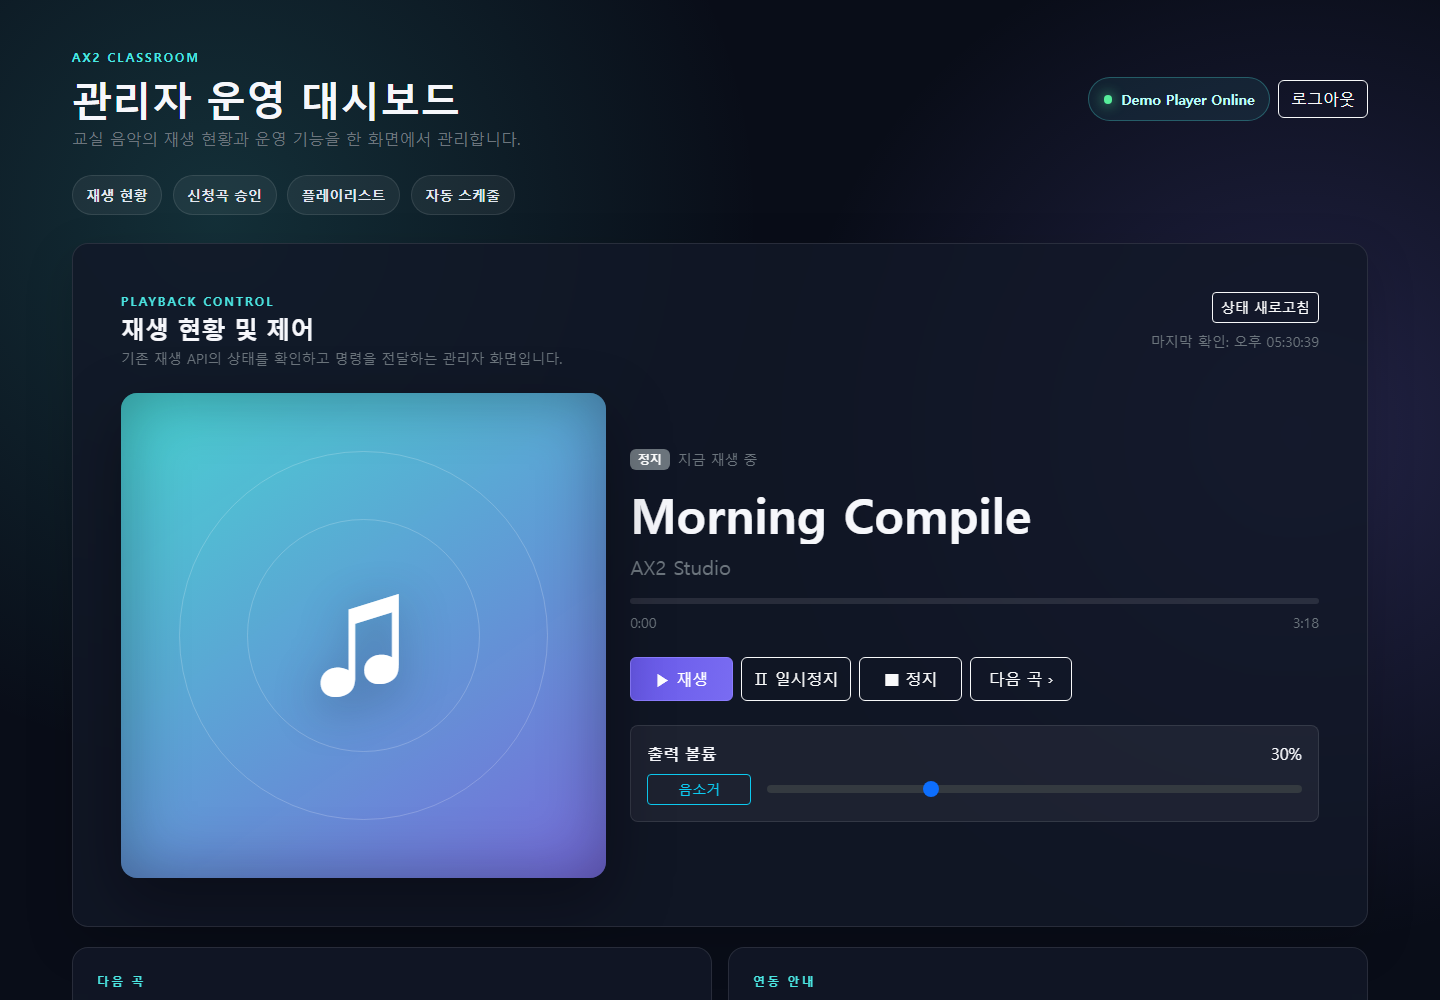
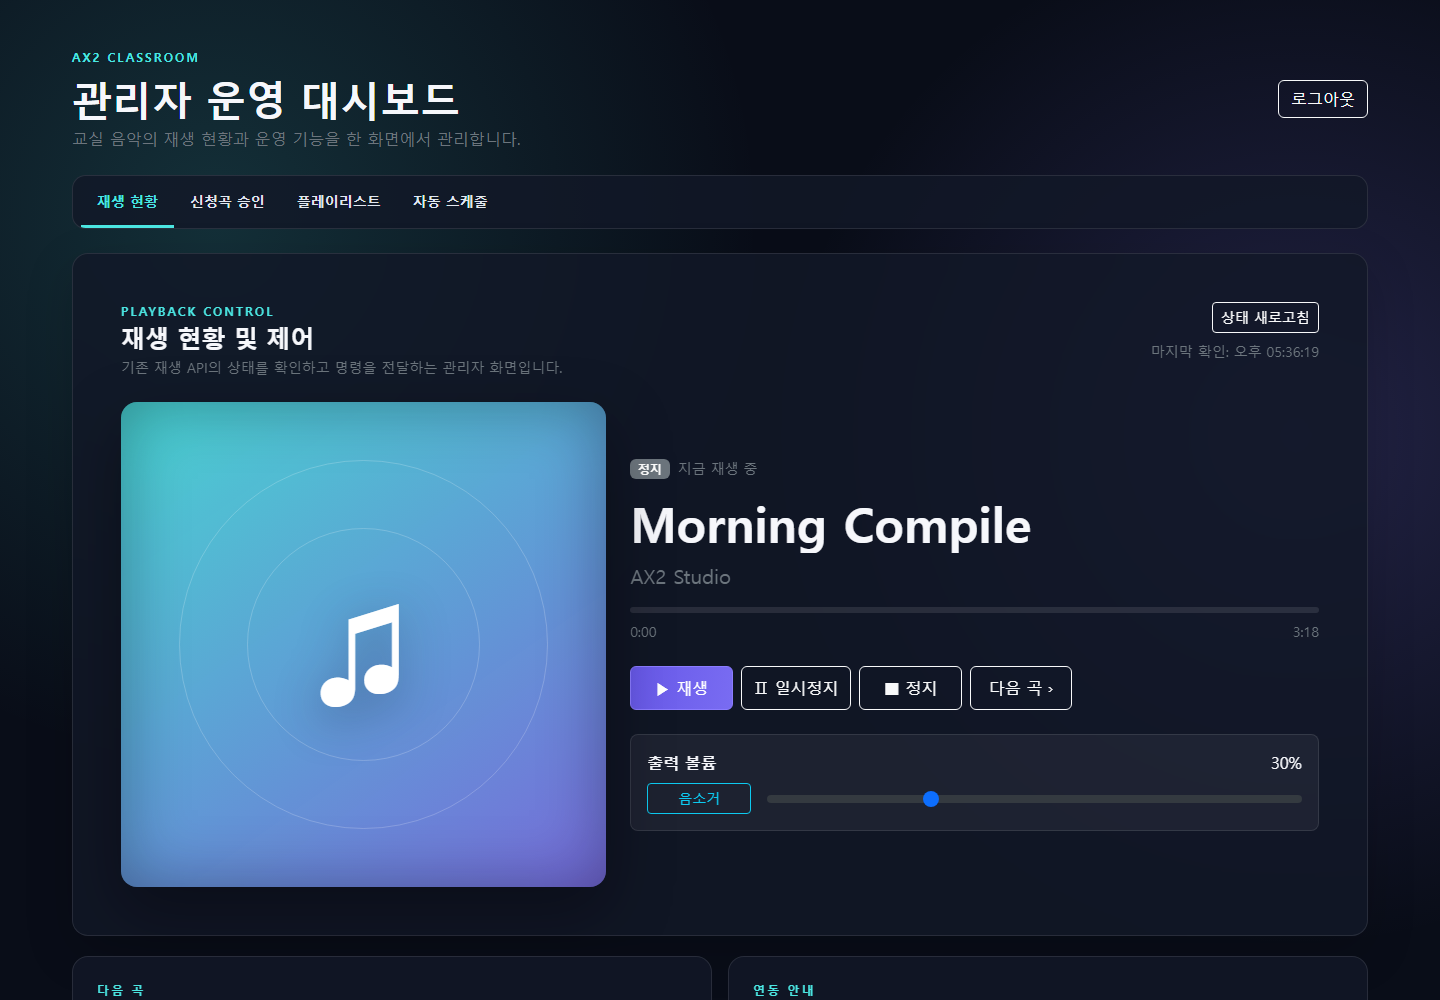
fix: refine STEP 02 admin navigation

diff --git a/backend/app/static/dashboard.js b/backend/app/static/dashboard.js
@@ -40,8 +40,6 @@ const elements = {
   scheduleVolume: document.querySelector("#schedule-volume"),
   scheduleList: document.querySelector("#schedule-list"),
   scheduleRefreshButton: document.querySelector("#schedule-refresh-button"),
-  connectionPill: document.querySelector("#connection-pill"),
-  connectionLabel: document.querySelector("#connection-label"),
   playerRefreshButton: document.querySelector("#player-refresh-button"),
   lastUpdated: document.querySelector("#last-updated"),
 };
@@ -78,15 +76,6 @@ function render(state) {
   elements.muteButton.setAttribute("aria-pressed", String(state.muted));
   elements.muteButton.classList.toggle("btn-info", state.muted);
   elements.muteButton.classList.toggle("btn-outline-info", !state.muted);
-  elements.connectionPill.classList.remove("is-offline");
-  elements.connectionLabel.textContent = state.backend === "mpd" ? "MPD Online" : "Demo Player Online";
-}
-
-function renderConnectionHealth(health) {
-  elements.connectionPill.classList.toggle("is-offline", !health.connected);
-  elements.connectionLabel.textContent = health.connected
-    ? `${health.backend === "mpd" ? "MPD" : "Demo Player"} Online`
-    : `${health.backend.toUpperCase()} Offline`;
 }
 
 function renderLastUpdated() {
@@ -582,11 +571,8 @@ async function refreshPlayer() {
   elements.playerRefreshButton.textContent = "확인 중…";
   try {
     render(await request("/api/player/status"));
-    renderConnectionHealth(await request("/api/player/health"));
     renderLastUpdated();
   } catch (error) {
-    elements.connectionPill.classList.add("is-offline");
-    elements.connectionLabel.textContent = "연결 확인 실패";
     showError(error);
   } finally {
     elements.playerRefreshButton.disabled = false;

diff --git a/backend/app/static/styles.css b/backend/app/static/styles.css
@@ -77,61 +77,34 @@ body {
   text-transform: uppercase;
 }
 
-.connection-pill {
-  align-items: center;
-  background: rgba(76, 230, 226, 0.08);
-  border: 1px solid rgba(76, 230, 226, 0.3);
-  border-radius: 999px;
-  color: #bffef9;
-  display: inline-flex;
-  font-size: 0.875rem;
-  font-weight: 700;
-  gap: 0.55rem;
-  padding: 0.65rem 0.9rem;
-}
-
-.connection-pill.is-offline {
-  background: rgba(239, 68, 68, 0.1);
-  border-color: rgba(239, 68, 68, 0.45);
-  color: #fecaca;
-}
-
-.connection-pill.is-offline .status-dot {
-  background: #ef4444;
-  box-shadow: 0 0 0.8rem rgba(239, 68, 68, 0.75);
-}
-
-.status-dot {
-  background: #57ee9b;
-  border-radius: 50%;
-  box-shadow: 0 0 0.8rem rgba(87, 238, 155, 0.9);
-  height: 0.55rem;
-  width: 0.55rem;
-}
-
 .dashboard-nav {
+  background: var(--surface);
+  border: 1px solid var(--line);
+  border-radius: 0.85rem;
   display: flex;
-  gap: 0.65rem;
   overflow-x: auto;
-  padding-bottom: 0.25rem;
+  padding: 0 0.5rem;
   scrollbar-width: thin;
 }
 
 .dashboard-nav a {
-  background: var(--surface-soft);
-  border: 1px solid var(--line);
-  border-radius: 999px;
+  border-bottom: 3px solid transparent;
   color: #e2e8f0;
   flex: 0 0 auto;
   font-size: 0.875rem;
   font-weight: 700;
-  padding: 0.55rem 0.85rem;
+  padding: 0.95rem 1rem 0.8rem;
   text-decoration: none;
 }
 
 .dashboard-nav a:hover,
 .dashboard-nav a:focus-visible {
-  border-color: var(--cyan);
+  background: var(--surface-soft);
+  color: var(--cyan);
+}
+
+.dashboard-nav a.is-active {
+  border-bottom-color: var(--cyan);
   color: var(--cyan);
 }
 

diff --git a/backend/app/templates/admin/dashboard.html b/backend/app/templates/admin/dashboard.html
@@ -23,18 +23,14 @@
           <p class="text-secondary mb-0">교실 음악의 재생 현황과 운영 기능을 한 화면에서 관리합니다.</p>
         </div>
         <div class="d-flex align-items-center gap-2">
-          <div id="connection-pill" class="connection-pill" aria-label="연결 상태">
-            <span class="status-dot" aria-hidden="true"></span>
-            <span id="connection-label">연결 확인 중</span>
-          </div>
           <button id="logout-button" class="btn btn-outline-light" type="button">로그아웃</button>
         </div>
       </header>
 
       <div id="alert" class="alert alert-danger d-none" role="alert" aria-live="assertive"></div>
 
-      <nav class="dashboard-nav mb-4" aria-label="관리 메뉴 바로가기">
-        <a href="#playback-control">재생 현황</a>
+      <nav id="admin-menu" class="dashboard-nav mb-4" aria-label="관리자 메뉴">
+        <a class="is-active" href="#playback-control" aria-current="page">재생 현황</a>
         <a href="#review-heading">신청곡 승인</a>
         <a href="#playlist-heading">플레이리스트</a>
         <a href="#schedule-heading">자동 스케줄</a>

diff --git a/backend/tests/test_main.py b/backend/tests/test_main.py
@@ -209,6 +209,8 @@ def test_admin_can_login_open_dashboard_and_logout() -> None:
     assert me.json()["role"] == "ADMIN"
     assert dashboard.status_code == 200
     assert "관리자 운영 대시보드" in dashboard.text
+    assert 'id="admin-menu"' in dashboard.text
+    assert "Demo Player Online" not in dashboard.text
     assert 'id="playback-control"' in dashboard.text
     assert 'id="player-refresh-button"' in dashboard.text
     assert 'id="last-updated"' in dashboard.text
